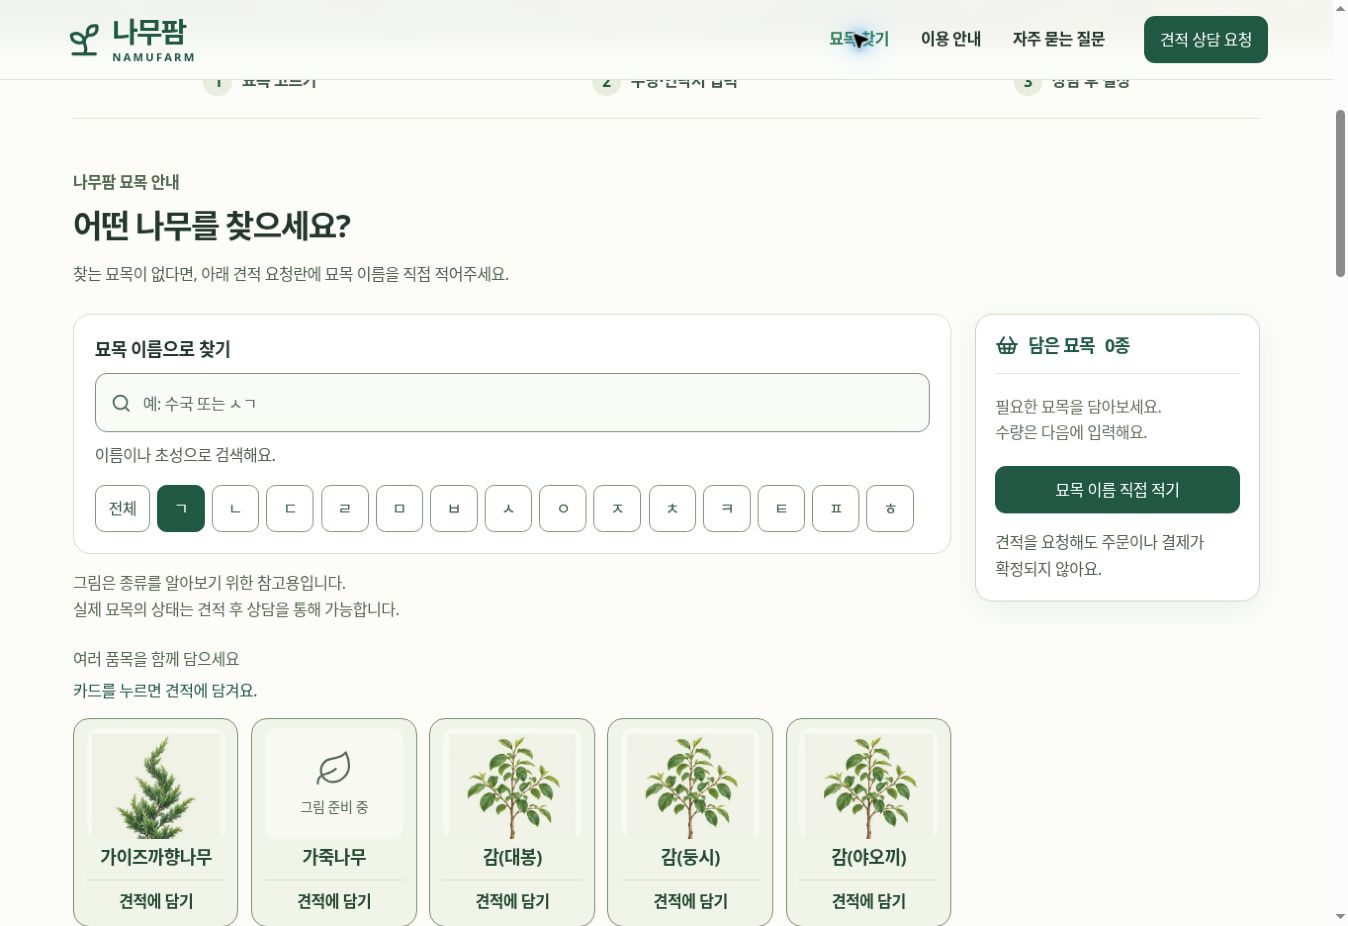
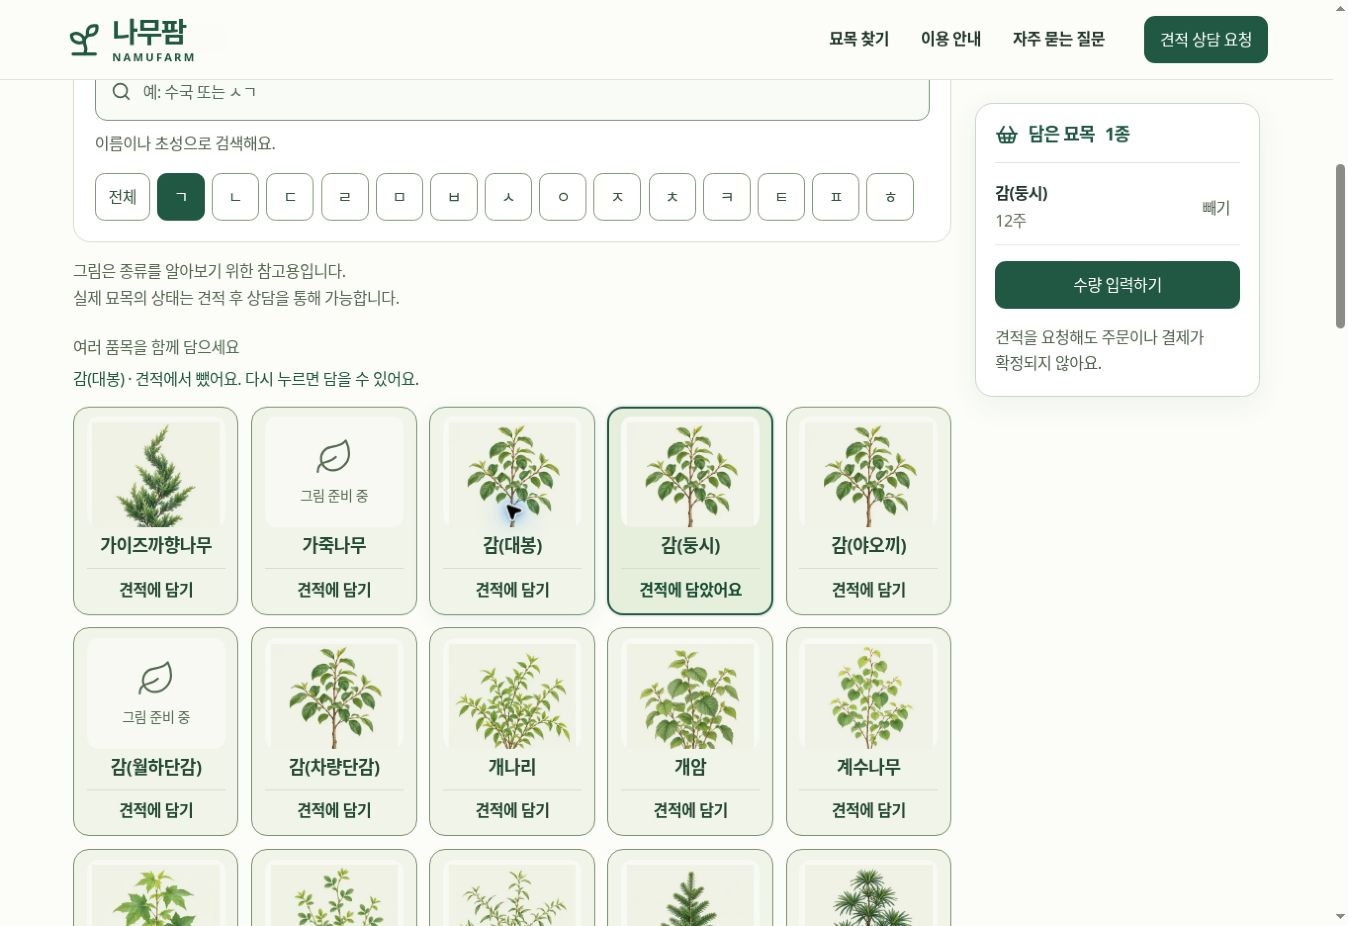
fix(website): toggle seedling cards in quote list
Clicking a selected card removes its matching quote rows and restores the add caption. Preserve full removed rows for undo, including quantity and specification.

Validated all 19 website tests, TypeScript, production build, and browser add/remove/re-add/undo behavior.

diff --git a/website/components/quote-home.tsx b/website/components/quote-home.tsx
@@ -14,7 +14,7 @@ import { Dialog, DialogClose, DialogContent, DialogDescription, DialogHeader, Di
 import { Accordion, AccordionContent, AccordionItem, AccordionTrigger } from "@/components/ui/accordion";
 import { quoteItemSchema, quoteSchema, requestFingerprint, newRequestId, type QuoteRequest } from "@/lib/quote-schema";
 import { validatedQuoteReceipt, receiptTimeSeoul, type QuoteReceipt } from "@/lib/quote-receipt";
-import { addCatalogLine, emptyLine, isEmptyLine, quoteFieldProblems, type FieldProblem, type QuoteLine as Line } from "@/lib/quote-form";
+import { toggleCatalogLine, emptyLine, isEmptyLine, quoteFieldProblems, type FieldProblem, type RemovedQuoteLine, type QuoteLine as Line } from "@/lib/quote-form";
 
 export default function QuoteHome({ initialTestMode = false, initialConfigured = false }: { initialTestMode?: boolean; initialConfigured?: boolean }) {
   const [lines, setLines] = useState<Line[]>([emptyLine(0)]);
@@ -40,7 +40,7 @@ export default function QuoteHome({ initialTestMode = false, initialConfigured =
   const reviewTitleRef = useRef<HTMLHeadingElement>(null);
   const successRef = useRef<HTMLDivElement>(null);
   const [problems, setProblems] = useState<FieldProblem[]>([]);
-  const [removed, setRemoved] = useState<{ line: Line; index: number } | null>(null);
+  const [removed, setRemoved] = useState<{ lines: RemovedQuoteLine[]; label: string } | null>(null);
   const [delayed, setDelayed] = useState(false);
   const [conflict, setConflict] = useState(false);
   const [copyNotice, setCopyNotice] = useState("");
@@ -115,15 +115,16 @@ export default function QuoteHome({ initialTestMode = false, initialConfigured =
   };
   function selectSpecies(species: string) {
     if (locked) return;
-    const result = addCatalogLine(lines, species, nextLine.current++);
-    setLines(result.lines); setNotice(result.notice); setProblems([]); setRemoved(null);
+    const result = toggleCatalogLine(lines, species, nextLine.current++);
+    setLines(result.lines); setNotice(result.notice); setProblems([]);
+    setRemoved(result.removed.length ? { lines: result.removed, label: species } : null);
     if (result.added) setSuccess(null);
   }
   function removeLine(id: number) {
     if (locked) return;
     const index = lines.findIndex(line => line.id === id);
     if (index < 0) return;
-    setRemoved({ line: lines[index], index });
+    setRemoved({ lines: [{ line: lines[index], index }], label: lines[index].species || "빈 품목" });
     setNotice(`${lines[index].species || "빈 품목"} · 목록에서 뺐어요.`);
     setLines(lines.length === 1 ? [emptyLine(nextLine.current++)] : lines.filter(line => line.id !== id));
     setProblems([]);
@@ -131,8 +132,9 @@ export default function QuoteHome({ initialTestMode = false, initialConfigured =
   function undoRemove() {
     if (!removed || locked) return;
     const remaining = lines.filter(line => !isEmptyLine(line));
-    if (remaining.length >= 20) { setNotice("20종까지 담을 수 있어요. 다른 품목을 뺀 뒤 되돌려주세요."); return; }
-    if (!remaining.some(line => removed.line.species && line.species.trim() === removed.line.species.trim())) remaining.splice(Math.min(removed.index, remaining.length), 0, removed.line);
+    const restore = removed.lines.filter(({ line }) => !remaining.some(current => current.id === line.id));
+    if (remaining.length + restore.length > 20) { setNotice("20종까지 담을 수 있어요. 다른 품목을 뺀 뒤 되돌려주세요."); return; }
+    for (const { line, index } of restore) remaining.splice(Math.min(index, remaining.length), 0, line);
     setLines(remaining.length ? remaining : [emptyLine(nextLine.current++)]); setRemoved(null); setNotice("품목을 되돌렸어요.");
   }
   function fieldAttrs(id: string, help?: string) {
@@ -217,7 +219,7 @@ export default function QuoteHome({ initialTestMode = false, initialConfigured =
             <div className="form-title"><div><FileText /><h3>견적 상담 요청</h3></div><span>필수 항목을 확인해주세요</span></div>
             {testMode && <div className="test-mode-notice"><strong>{testNotice}</strong><p>실제 고객정보 대신 테스트용 정보를 입력해주세요.</p><Button type="button" variant="link" onClick={() => setTestNoticeOpen(true)}>테스트 안내 다시 보기</Button></div>}
             {!ready && <div className="service-notice">온라인 접수를 준비하고 있어요. 지금은 양식을 살펴볼 수 있으며 요청은 전송되지 않습니다.</div>}
-            {removed && <div className="undo-notice"><span>{removed.line.species || "빈 품목"} · 목록에서 뺐어요.</span><Button type="button" variant="ghost" onClick={undoRemove} disabled={locked}>되돌리기</Button></div>}
+            {removed && <div className="undo-notice"><span>{removed.label} · 목록에서 뺐어요.</span><Button type="button" variant="ghost" onClick={undoRemove} disabled={locked}>되돌리기</Button></div>}
             <fieldset className="quote-section-box" disabled={locked}><legend><span>1</span>견적 요청 묘목</legend><div className="line-list">{lines.map((line, index) => <div className="item-line" key={line.id}>
               <div className="item-number">품목 {index + 1}<Button type="button" variant="ghost" aria-label={`품목 ${index + 1} ${line.species} 빼기`} onClick={() => removeLine(line.id)}><Trash2 />빼기</Button></div>
               <div className="item-fields"><div className="field species-field"><Label htmlFor={`species-${line.id}`}>묘목 이름 <small>필수</small></Label><Input id={`species-${line.id}`} required maxLength={80} placeholder="예: 감나무" value={line.species} onChange={e => updateLine(line.id, "species", e.target.value)} {...fieldAttrs(`species-${line.id}`)} />{fieldError(`species-${line.id}`)}</div>

diff --git a/website/lib/quote-form.ts b/website/lib/quote-form.ts
@@ -1,5 +1,6 @@
 import type { ZodIssue } from "zod";
 export type QuoteLine = { id: number; species: string; specification: string; quantity: string };
+export type RemovedQuoteLine = { line: QuoteLine; index: number };
 export const emptyLine = (id: number): QuoteLine => ({ id, species: "", specification: "", quantity: "" });
 export const isEmptyLine = (line: QuoteLine) => !line.species.trim() && !line.specification.trim() && !line.quantity;
 export type FieldProblem = { id: string; message: string };
@@ -24,4 +25,12 @@ export function addCatalogLine(lines: QuoteLine[], species: string, newId: numbe
   if (empty >= 0) return { lines: lines.map((line, i) => i === empty ? { ...line, species } : line), added: true, notice: `${species} · 견적에 담았어요. 계속 고르셔도 됩니다.` };
   if (lines.length >= 20) return { lines, added: false, notice: "한 번에 20종까지 요청할 수 있어요. 담은 목록에서 품목을 확인해주세요." };
   return { lines: [...lines, { ...emptyLine(newId), species }], added: true, notice: `${species} · 견적에 담았어요. 계속 고르셔도 됩니다.` };
+}
+export function toggleCatalogLine(lines: QuoteLine[], species: string, newId: number): { lines: QuoteLine[]; added: boolean; notice: string; removed: RemovedQuoteLine[] } {
+  const removed = lines.flatMap((line, index) => line.species.trim() === species ? [{ line, index }] : []);
+  if (removed.length) {
+    const remaining = lines.filter(line => line.species.trim() !== species);
+    return { lines: remaining.length ? remaining : [emptyLine(newId)], added: false, removed, notice: `${species} · 견적에서 뺐어요. 다시 누르면 담을 수 있어요.` };
+  }
+  return { ...addCatalogLine(lines, species, newId), removed: [] };
 }

diff --git a/website/components/species-browser.tsx b/website/components/species-browser.tsx
@@ -33,7 +33,7 @@ export default function SpeciesBrowser({ lines, onSelect, onRemove, notice, lock
       </div>
       <p className="catalog-note">그림은 종류를 알아보기 위한 참고용입니다.<br />실제 묘목의 상태는 견적 후 상담을 통해 가능합니다.</p>
       <p className="catalog-results-heading">여러 품목을 함께 담으세요</p>
-      <p className="catalog-live" role="status" aria-live="polite" aria-atomic="true">{notice || "카드를 누르면 견적에 담겨요."}</p>
+      <p className="catalog-live" role="status" aria-live="polite" aria-atomic="true">{notice || "카드를 누르면 담기고, 다시 누르면 빠져요."}</p>
       <div className="catalog-grid">{matches.slice(0, visibleCount).map((species, index) => {
         const isSelected = selected.has(species.name);
         return <button type="button" key={species.id} data-species-id={species.id} className={`catalog-card${isSelected ? " selected" : ""}`} disabled={locked} onClick={() => onSelect(species.name)} aria-label={`${species.name}, ${isSelected ? "견적에 담았어요" : "견적에 담기"}`} aria-pressed={isSelected}>

diff --git a/website/docs/responsive-catalog-review.md b/website/docs/responsive-catalog-review.md
@@ -17,7 +17,7 @@
 
 1. 첫 화면에서 `묘목 찾아보기` 또는 `견적 바로 작성`을 선택한다.
 2. 처음에는 `ㄱ` 목록을 표시한다. 이름·초성 검색은 전체 목록에서 찾으며 검색을 지우면 `ㄱ`으로 돌아간다. 초성 버튼을 누르면 첫 글자로 좁힌다.
-3. 카드 전체를 눌러 여러 품목을 담는다. 스크롤을 양식으로 강제 이동하지 않는다. 중복 클릭은 수량을 늘리지 않는다.
+3. 카드 전체를 한 번 누르면 담고 다시 누르면 뺀다. 해제하면 `견적에 담기`로 돌아오며 스크롤을 양식으로 강제 이동하지 않는다. 같은 이름을 직접 여러 줄 입력했어도 카드에서 해제하면 모두 빠진다. 잘못 뺀 품목은 입력한 수량·규격과 함께 되돌릴 수 있다.
 4. PC는 오른쪽 담은 목록, 모바일은 하단 버튼으로 수량 입력란에 간다.
 5. 수량·성함·전화번호·시군구를 입력한다. 희망 규격은 항상 펼쳐진 입력란이며 요청사항과 함께 선택 항목이다. 목록 밖 이름을 직접 추가할 수 있다.
 6. 공식 견적서가 필요한 경우에만 받는 방법과 수신인을 펼친다. 이메일 선택 시에만 이메일을 필수로 받는다. 설명과 `견적서 예시 보기`는 항상 읽을 수 있다.
@@ -28,7 +28,7 @@
 
 최근 보완에서는 초성 버튼 사용 안내와 `전체 묘목 186종` 표시를 삭제했다. 그림 안내를 요청한 두 문장으로 나누고, 하단 전화 상담에 `043-732-0980 / 010-4446-0304`를 각각 통화 가능한 링크로 표시한다.
 
-![기본 ㄱ 목록과 수정한 두 줄 안내](ui-catalog-refinement.jpg)
+![카드를 다시 눌러 해제한 뒤 담기 문구와 견적 목록이 함께 바뀐 화면](ui-catalog-refinement.jpg)
 
 ## 크기·색상 기준
 
@@ -72,7 +72,7 @@ node node_modules/typescript/bin/tsc --noEmit --incremental false
 node --test tests/*.test.mjs
 ```
 
-연결 검증 범위는 품목번호 전수 매핑, 명칭 보류 37개와 추가 보류 9개 유지, WebP 파일 존재·용량, 중복 선택·20종 제한·입력 오류 위치, 엄격한 API 계약, 실제 WebCrypto 암복호화, 요청 바인딩, 재시도 fingerprint, 서버 접수번호와 한국 날짜 검증이다. 홈페이지 테스트 17개와 기존 Apps Script 테스트 52개가 통과했다. Apps Script 테스트에는 동일 UUID 재전송의 단일 Sheet 행, 저장 실패 시 성공 응답 금지, 409 충돌, 이메일 선택, 보유기간 처리가 포함된다.
+연결 검증 범위는 품목번호 전수 매핑, 명칭 보류 37개와 추가 보류 9개 유지, WebP 파일 존재·용량, 카드 담기·해제·다시 담기·20종 제한·입력 오류 위치, 엄격한 API 계약, 실제 WebCrypto 암복호화, 요청 바인딩, 재시도 fingerprint, 서버 접수번호와 한국 날짜 검증이다. 홈페이지 테스트 19개와 기존 Apps Script 테스트 52개가 통과했다. Apps Script 테스트에는 동일 UUID 재전송의 단일 Sheet 행, 저장 실패 시 성공 응답 금지, 409 충돌, 이메일 선택, 보유기간 처리가 포함된다.
 
 로컬 전용 가상 응답 화면으로 503 응답 유실 뒤 동일 UUID·입력 원문으로 재확인, 유효한 응답 뒤 접수번호·한국시간 표시와 번호 복사, 409 충돌 시 재전송·수정 차단 및 전화 안내를 확인했다. 이 검증 페이지와 가상 API는 커밋·배포 산출물에서 제거한다.
 
